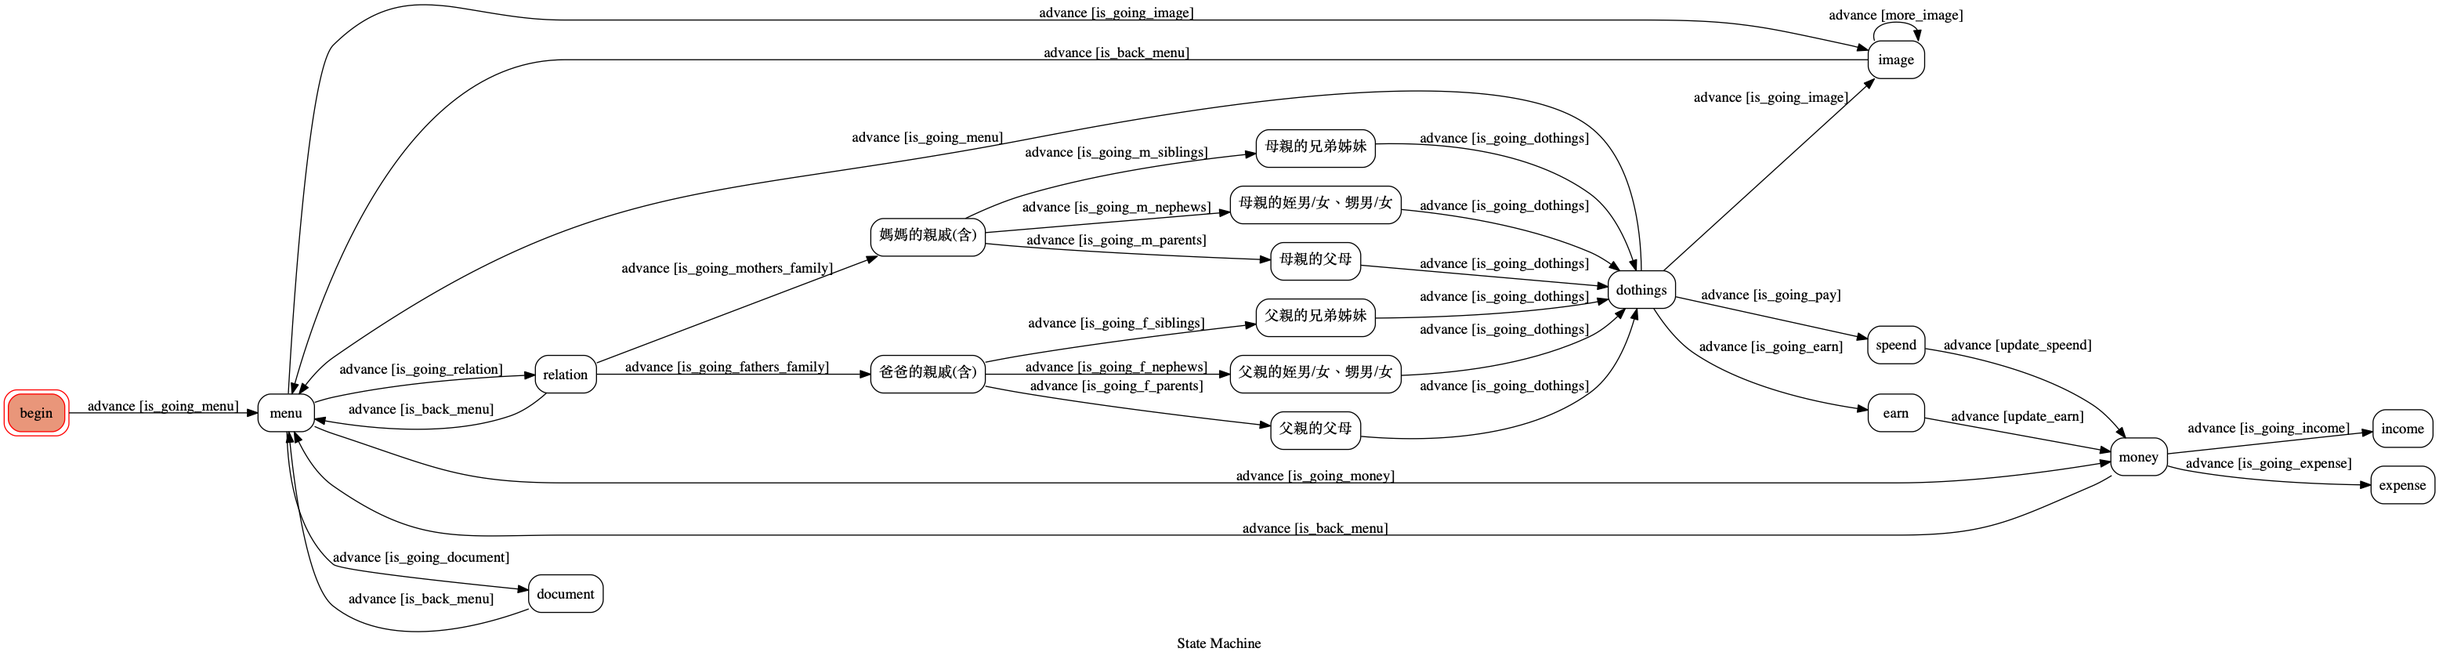
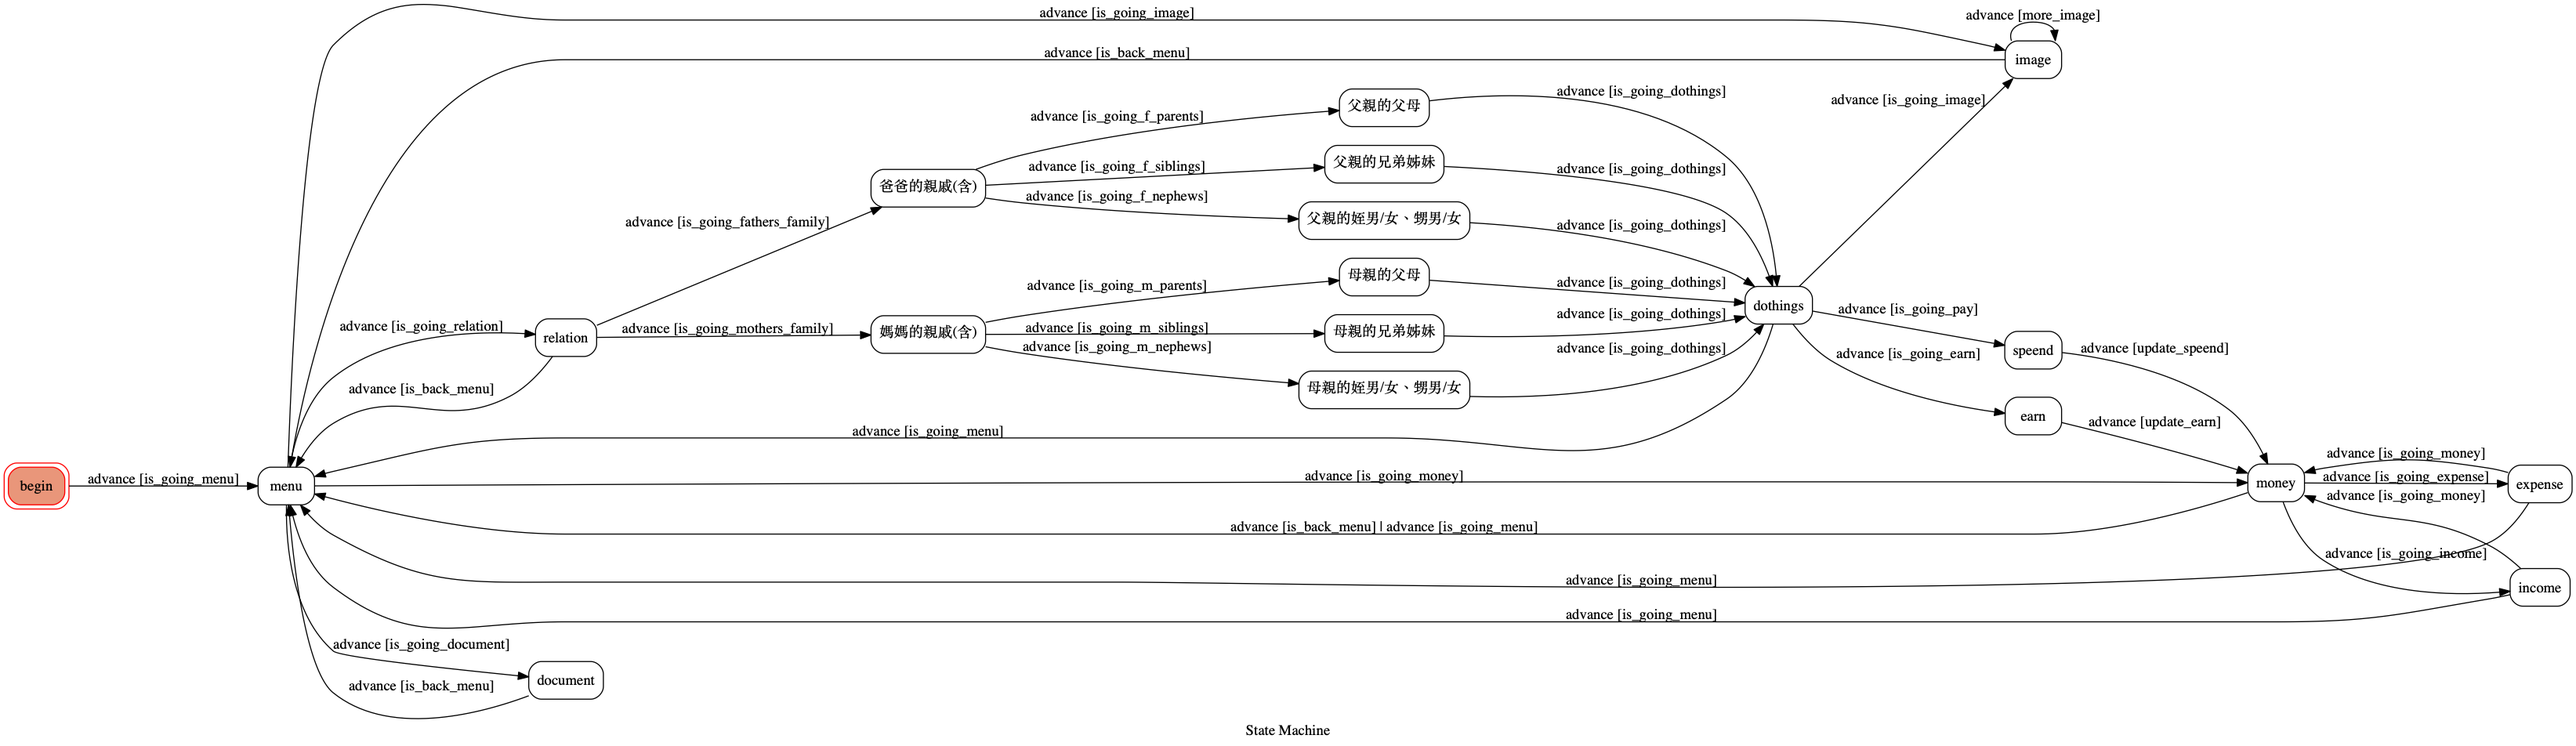
make it better

diff --git a/Template.py b/Template.py
@@ -134,10 +134,6 @@ def money(line_bot_api, event):
                     #     label='紅包收入',
                     #     text='紅包收入'
                     # ),
-                    # MessageAction(
-                    #     label='紅包支出',
-                    #     text='紅包支出'
-                    # ),
                     MessageAction(
                         label='查看收入',
                         text='查看收入'
@@ -145,6 +141,10 @@ def money(line_bot_api, event):
                     MessageAction(
                         label='查看支出',
                         text='查看支出'
+                    ),
+                    MessageAction(
+                        label='回主選單',
+                        text='回主選單'
                     ),
                 ]
             )
@@ -440,7 +440,28 @@ def m_nephews(line_bot_api, event):
                 ]
             )
         )
-    ) 
+    )
+     
+def check_in_money(line_bot_api, event):
+     line_bot_api.push_message(
+            event.source.user_id,
+            TemplateSendMessage(
+                alt_text='Confirm template',
+                template=ConfirmTemplate(
+                    text='回上頁 or 回主選單',
+                    actions=[
+                        MessageAction(
+                            label='回上頁',
+                            text='回上頁'
+                        ),
+                        MessageAction(
+                            label='回主選單',
+                            text='回主選單'
+                        )
+                    ]
+                )
+            )
+        )
 # def sons_family(line_bot_api, event):
 #     line_bot_api.reply_message(
 #         event.reply_token,

diff --git a/fsm.py b/fsm.py
@@ -20,6 +20,21 @@ class TocMachine(GraphMachine):
             if msg == "回主選單":
                 tpl.menu(line_bot_api, event)
                 return True
+        elif machine.state == "money":
+            msg = event.message.text
+            if msg == "回主選單":
+                tpl.menu(line_bot_api, event)
+                return True
+        elif machine.state == "income":
+            msg = event.message.text
+            if msg == "回主選單":
+                tpl.menu(line_bot_api, event)
+                return True
+        elif machine.state == "expense":
+            msg = event.message.text
+            if msg == "回主選單":
+                tpl.menu(line_bot_api, event)
+                return True
         return False
     def is_going_relation(self,line_bot_api, event, machine):
         msg = event.message.text
@@ -35,12 +50,16 @@ class TocMachine(GraphMachine):
             # machine.go_money()
             tpl.money(line_bot_api, event)
             return True
+        if msg == "回上頁":
+            tpl.money(line_bot_api, event)
+            return True
         return False
     
     def is_going_income(self, line_bot_api, event, machine):
         msg = event.message.text
         if msg =="查看收入":
             Msg.show_income(line_bot_api, event)
+            tpl.check_in_money(line_bot_api, event)
             return True
         return False
     
@@ -48,6 +67,7 @@ class TocMachine(GraphMachine):
         msg = event.message.text
         if msg == "查看支出":
             Msg.show_expense(line_bot_api, event)
+            tpl.check_in_money(line_bot_api, event)
             return True
         return False
     

diff --git a/Message.py b/Message.py
@@ -80,7 +80,7 @@ def show_income(line_bot_api, event):
     text = ""
     with open(f"user_data/{uid}.json", "r", encoding='utf8') as f:
         user_data = json.load(f)
-        text = "紅包收入：\n" + str(user_data['income_record']).replace('{', '').replace('}', '').replace('],', ',\n').replace('[', '').replace('\'', '')
+        text = "紅包收入：\n" + str(user_data['income_record']).replace('{', '').replace('}', '').replace('],', ',\n').replace('[', '').replace('\'', '').replace("]", "")
     line_bot_api.reply_message(
         event.reply_token,
         TextSendMessage(text=text))
@@ -90,7 +90,7 @@ def show_expense(line_bot_api, event):
     text = ""
     with open(f"user_data/{uid}.json", "r", encoding='utf8') as f:
         user_data = json.load(f)
-        text = "紅包支出：\n" + str(user_data['expense_record']).replace('{', '').replace('}', '').replace('],', ',\n').replace('[', '').replace('\'', '')
+        text = "紅包支出：\n" + str(user_data['expense_record']).replace('{', '').replace('}', '').replace('],', ',\n').replace('[', '').replace('\'', '').replace("]", "")
     line_bot_api.reply_message(
         event.reply_token,
         TextSendMessage(text=text))

diff --git a/state_and_transition.py b/state_and_transition.py
@@ -100,6 +100,12 @@ transition_system = [
     # {"trigger": "go_menu","source": "document","dest": "menu"},
     {"trigger": "advance","source": "money","dest": "income", "conditions": "is_going_income"},
     {"trigger": "advance","source": "money","dest": "expense", "conditions": "is_going_expense"},
+    {"trigger": "advance","source": "money","dest": "menu", "conditions": "is_going_menu"},
+    {"trigger": "advance","source": "income","dest": "money", "conditions": "is_going_money"},
+    {"trigger": "advance","source": "expense","dest": "money", "conditions": "is_going_money"},
+    {"trigger": "advance","source": "income","dest": "menu", "conditions": "is_going_menu"},
+    {"trigger": "advance","source": "expense","dest": "menu", "conditions": "is_going_menu"},
+    
     # {"trigger": "back","source": state_fathers_family,"dest": "relation"},
     # {"trigger": "back","source": state_mothers_family,"dest": "relation"},
     # {"trigger": "back","source": state_sons_family,"dest": "relation"},
